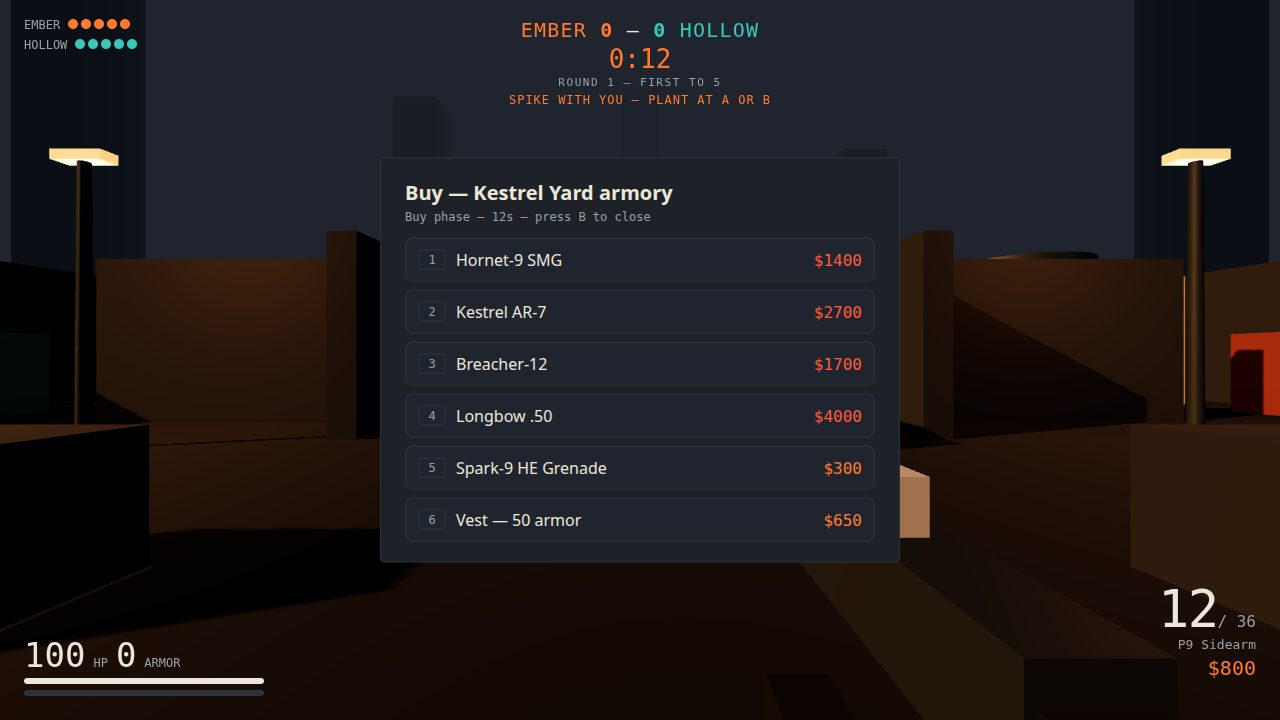
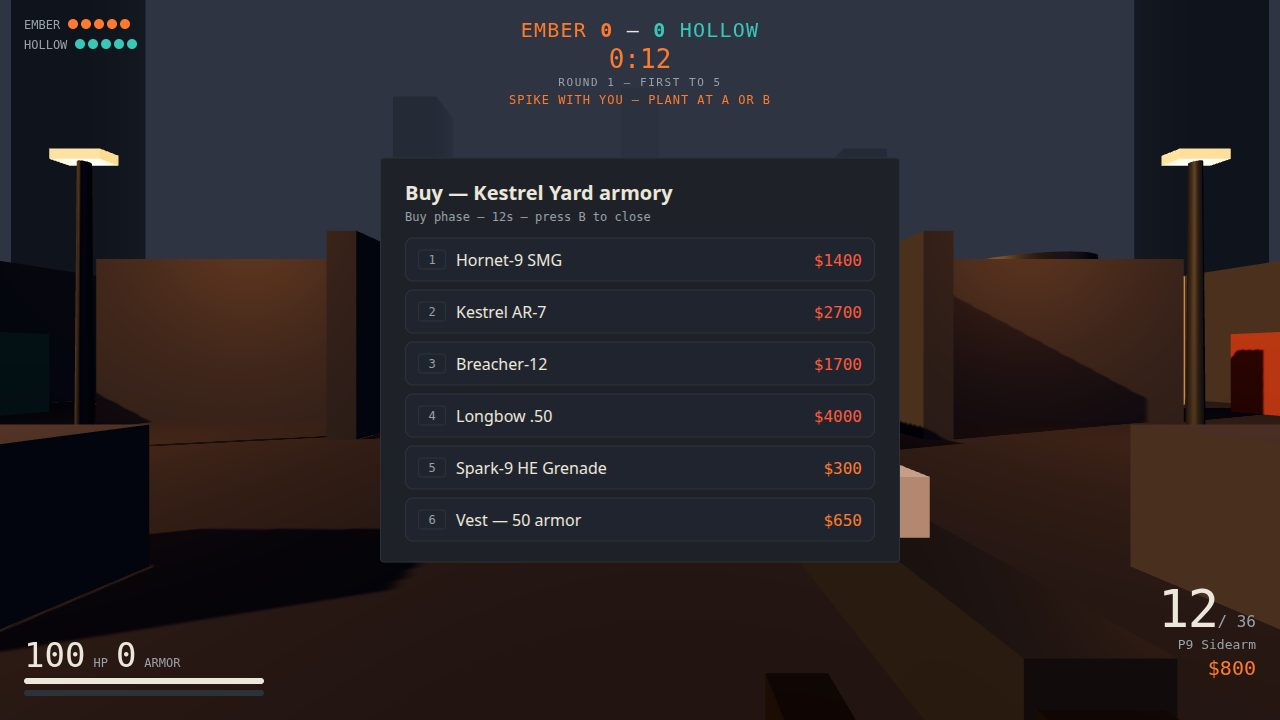
threejs-fps-02: brighten scene for criterion 4 (exposure, hemi, fill, sky, ground)

diff --git a/game/src/palette.js b/game/src/palette.js
@@ -5,7 +5,7 @@
 import * as THREE from 'three';
 
 export const PALETTE = {
-  sky: '#20242e',
+  sky: '#2e3442',
   asphalt: '#26292f',
   concrete: '#3b4046',
   steel: '#4a545e',
@@ -28,8 +28,8 @@ export function material(name, extra = {}) {
   let mat = cache.get(key);
   if (mat) return mat;
   const base = {
-    asphalt: { color: 0x26292f, roughness: 0.96, metalness: 0.0 },
-    concrete: { color: 0x3b4046, roughness: 0.94, metalness: 0.02 },
+    asphalt: { color: 0x33373e, roughness: 0.96, metalness: 0.0 },
+    concrete: { color: 0x4a5058, roughness: 0.94, metalness: 0.02 },
     steel: { color: 0x4a545e, roughness: 0.55, metalness: 0.55 },
     rust: { color: 0xa4552f, roughness: 0.85, metalness: 0.15 },
     teal: { color: 0x2f6f6a, roughness: 0.8, metalness: 0.2 },

diff --git a/game/src/world.js b/game/src/world.js
@@ -169,7 +169,7 @@ export function createWorld(scene) {
   scene.add(skyline);
 
   // Light: low dusk sun from the west, cool sky fill.
-  const sky = new THREE.HemisphereLight(0x3a4a6b, 0x1c1712, 1.4);
+  const sky = new THREE.HemisphereLight(0x4a5a7d, 0x2a2320, 1.9);
   scene.add(sky);
   const sun = new THREE.DirectionalLight(0xffb36b, 2.8);
   sun.position.set(-26, 16, 8);
@@ -183,7 +183,7 @@ export function createWorld(scene) {
   sun.shadow.camera.far = 80;
   sun.shadow.bias = -0.0006;
   scene.add(sun, sun.target);
-  const fill = new THREE.DirectionalLight(0x5a6a8a, 0.5);
+  const fill = new THREE.DirectionalLight(0x5a6a8a, 0.8);
   fill.position.set(18, 12, 14);
   scene.add(fill);
 

diff --git a/game/src/main.js b/game/src/main.js
@@ -28,7 +28,7 @@ renderer.setSize(window.innerWidth, window.innerHeight);
 renderer.shadowMap.enabled = true;
 renderer.shadowMap.type = THREE.PCFSoftShadowMap;
 renderer.toneMapping = THREE.ACESFilmicToneMapping;
-renderer.toneMappingExposure = 1.18;
+renderer.toneMappingExposure = 1.40;
 document.getElementById('game').appendChild(renderer.domElement);
 
 const scene = new THREE.Scene();
